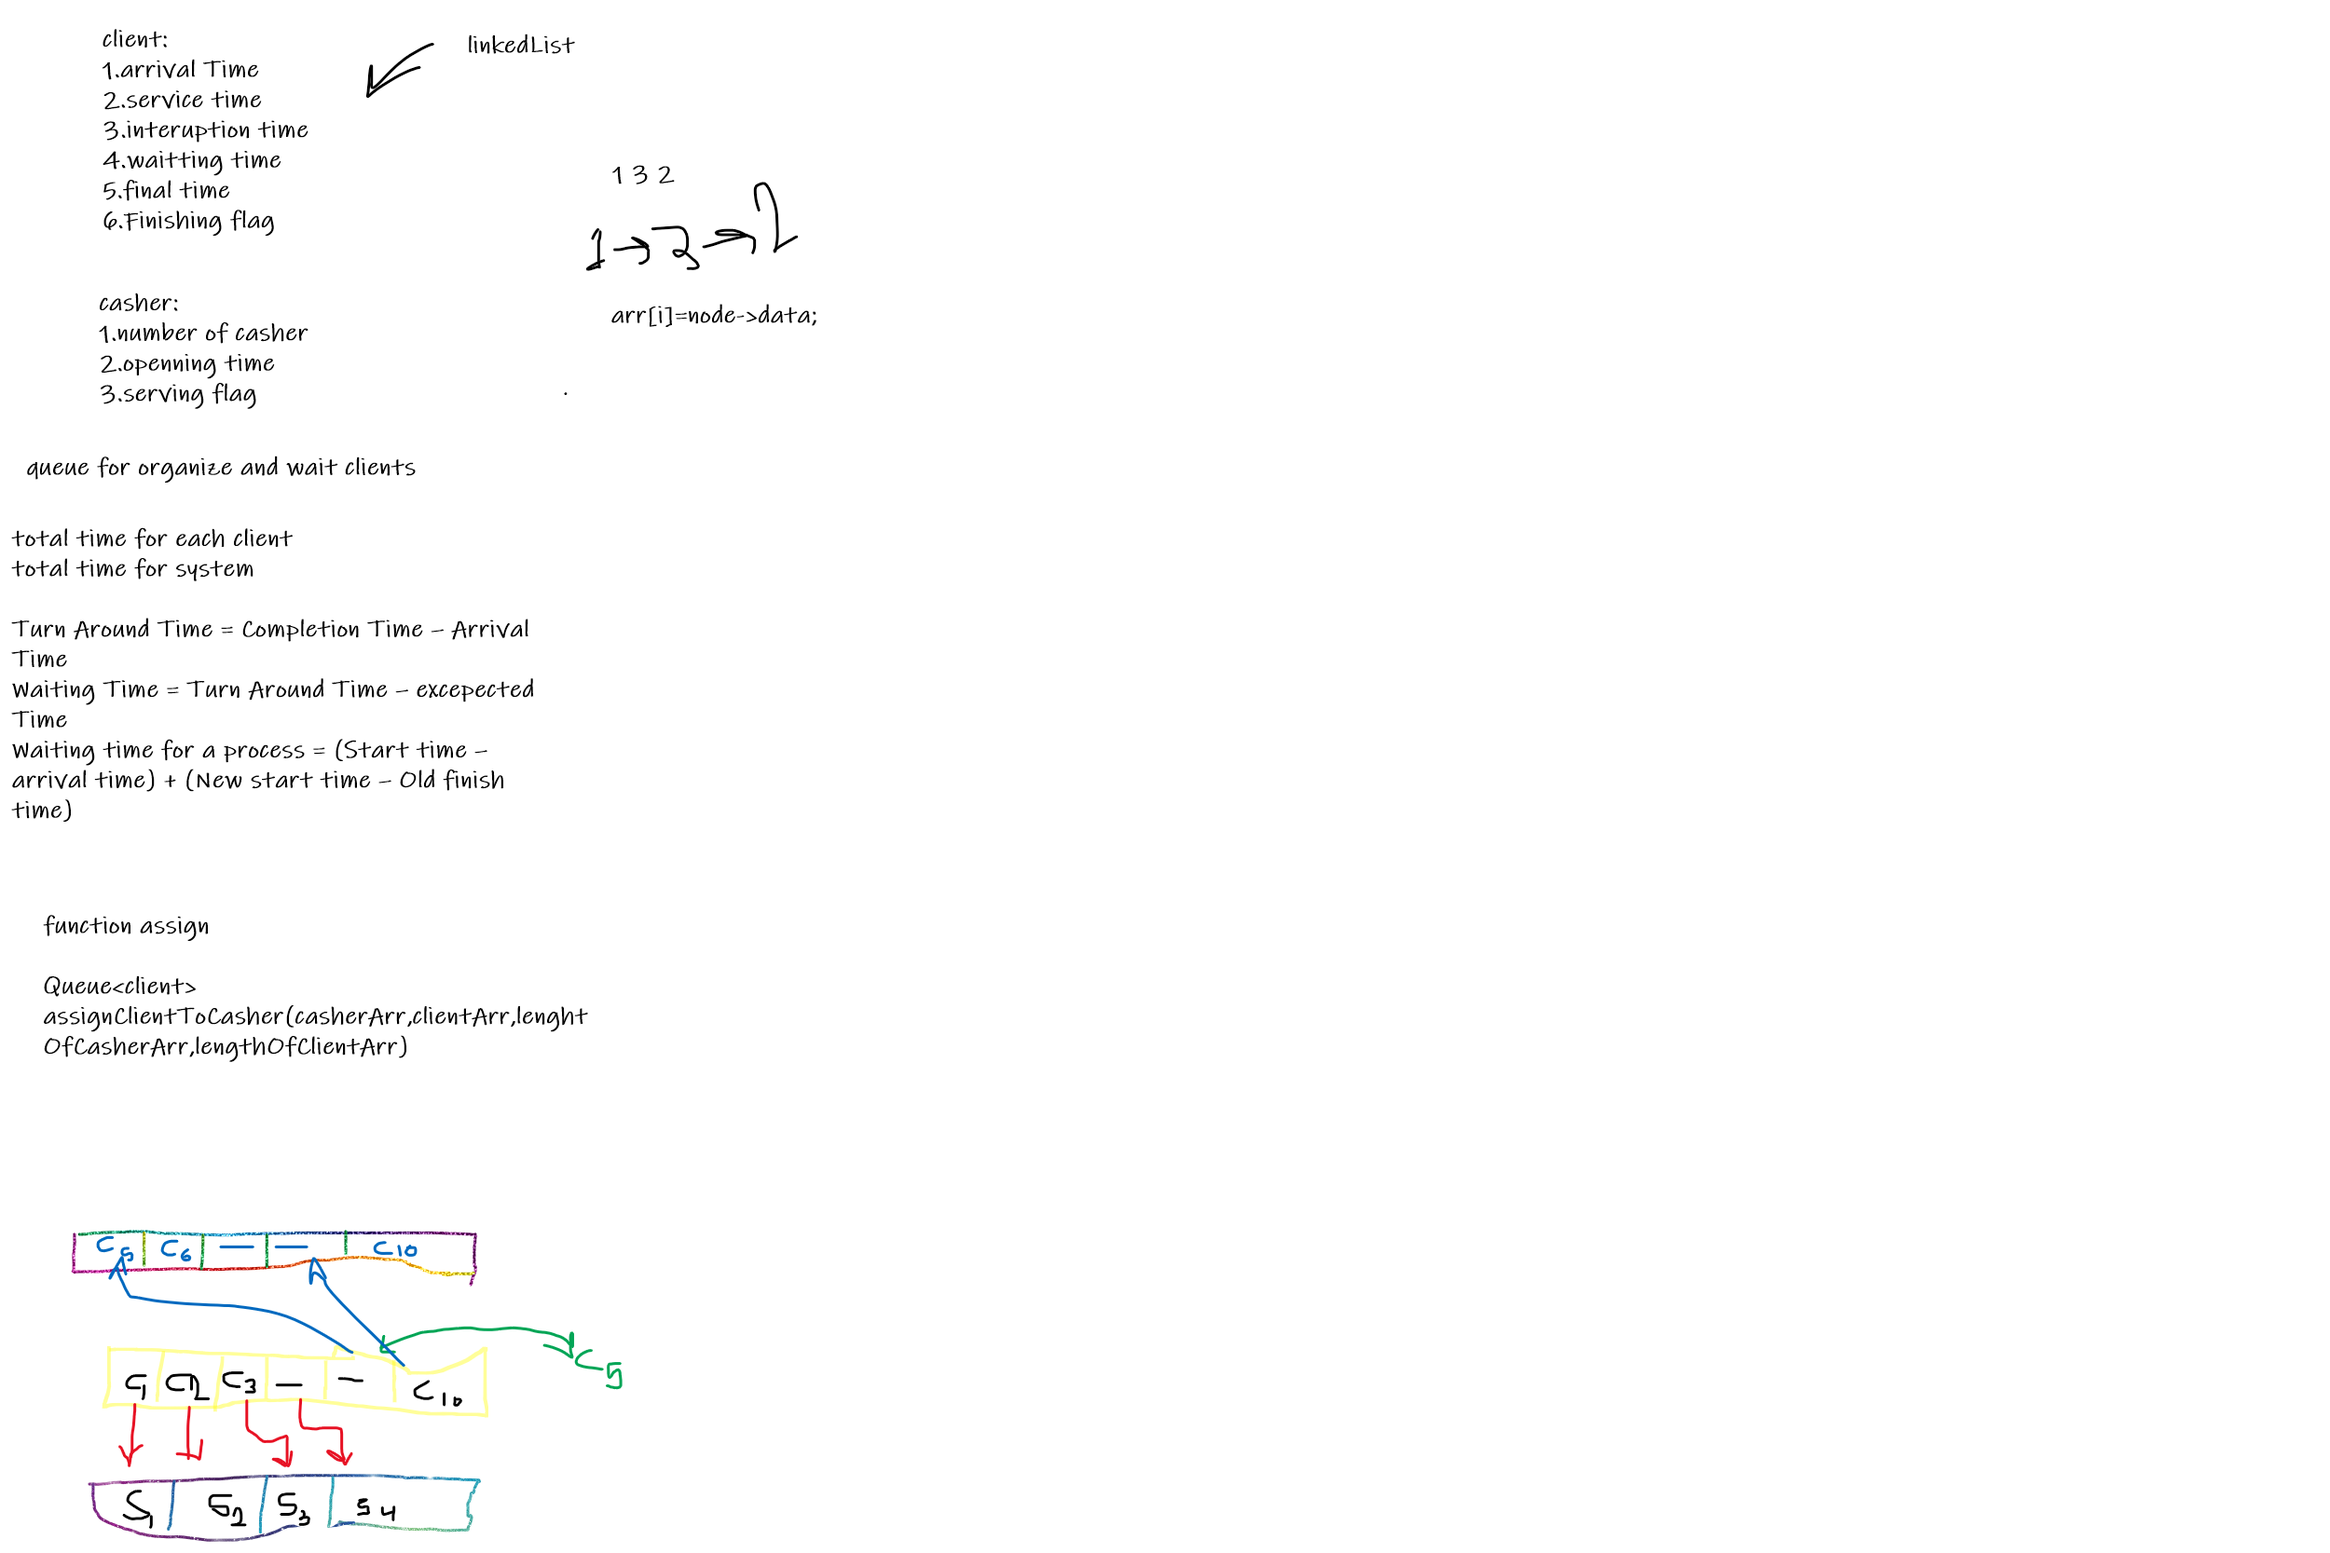
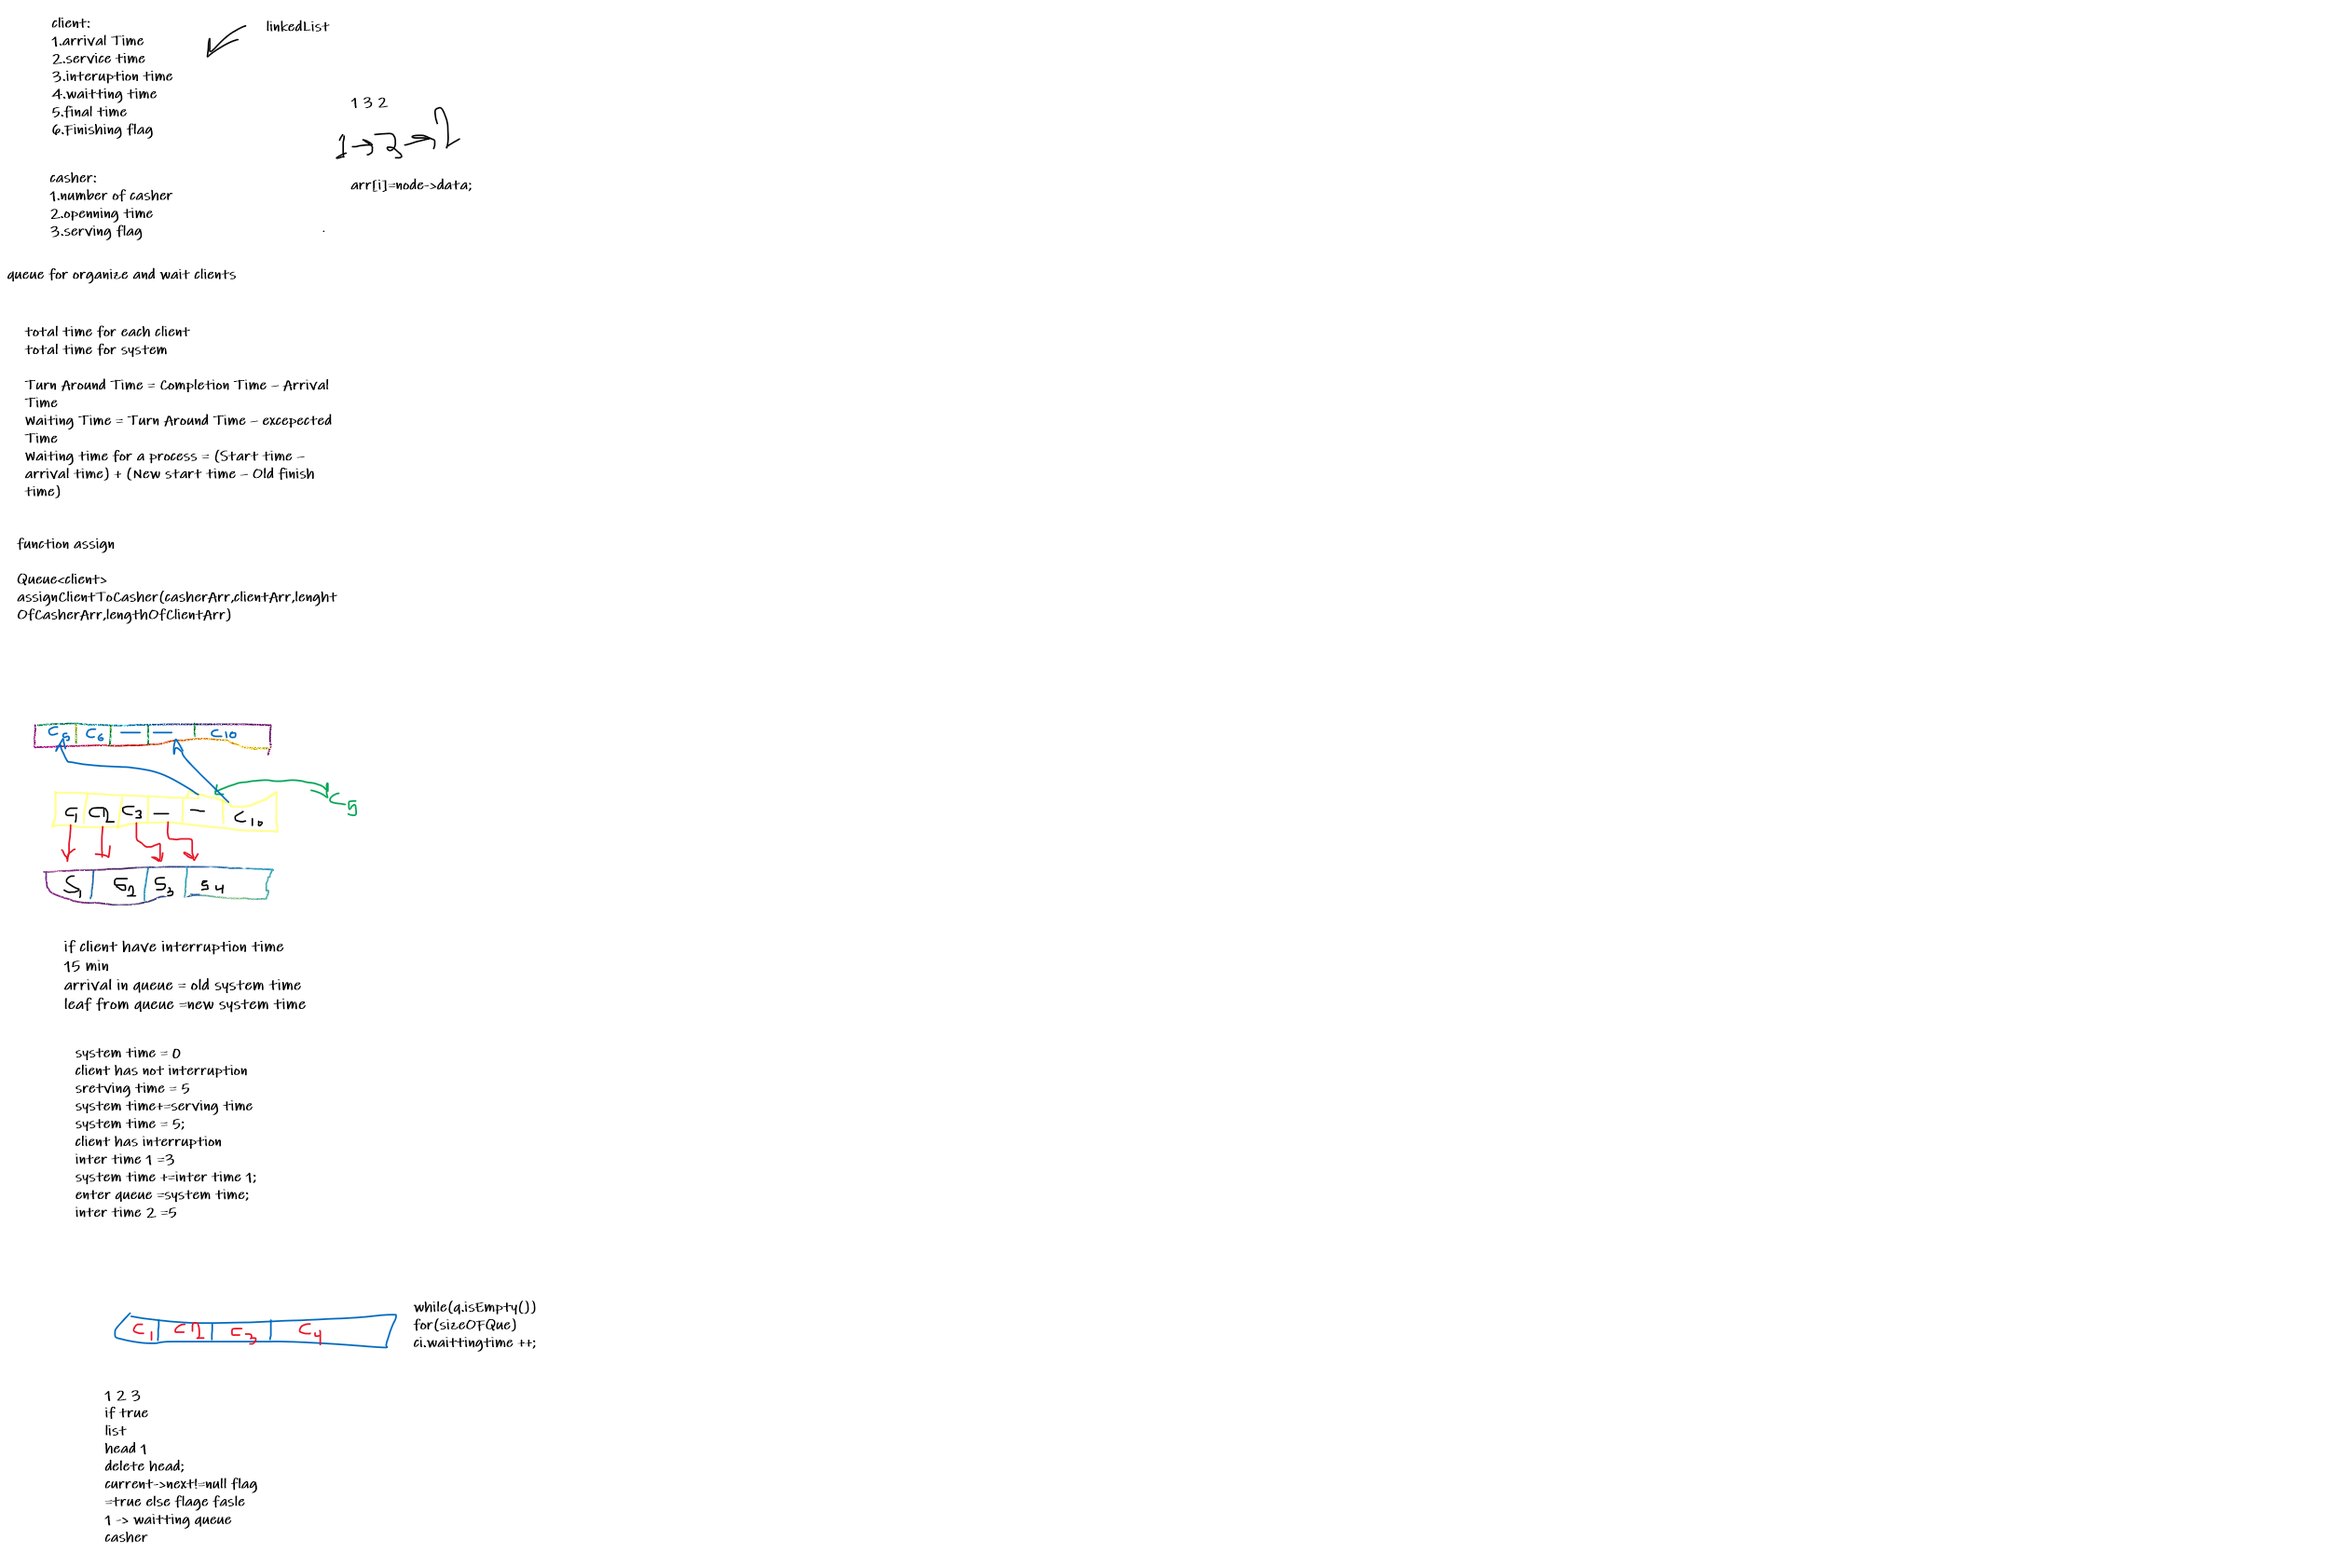
add waitting function

diff --git a/include/system.h b/include/system.h
@@ -1,22 +1,92 @@
 Queue<client> assignCasherToClient(client arr1[],casher arr2[],int len1,int len2){
-    Queue<client> clientWaitting;
-    int remainClient;
 
-    remainClient=0;
+    Queue<client> clientWaitting;
 
     for(int i=0;i<len2;i++){
         if(arr2[i].getSrvingFlag()==0)
             {
                arr2[i].setServingFlag(1);
                arr1[i].setNumberOfCasher(i);
-               ++remainClient;
+
             }
             }
 
-   for(int i=remainClient;i<len1;i++){
+   for(int i=0;i<len1;i++){
 
     clientWaitting.Enqueu(arr1[i]);
    }
 
 return clientWaitting;
 }
+
+///------------------------------------------------------------
+Queue<client> emptyQueue(Queue<client> Q){
+   while(Q.IsEmpty()){
+    Q.Dequeue();
+   }
+return Q;
+}
+///------------------------------------------------------------
+
+void calcWaittingTime(clientArr,casherArr,current_client_number,casher_number){
+Queue <client> Q;
+Queue <client> QClone;
+Queue <client> QC;
+
+Q=assignCasherToClient(clientArr,casherArr,current_client_number,casher_number);
+
+int iCasher,currentCasher;
+iCasher=0;
+client currentClient;
+LinkedList InterruptionList;
+Node *currentInterruptionTime;
+int currentServingTime;
+int newServingTime;
+
+    while(iCasher<casher_number){
+        currentClient=Q.FrontValue();
+        Q.Dequeue();
+        ///calculate Around  time
+        currentCasher=currentClient.getNumberOFCasher();
+       if(currentClient.getHasInterruption()){///if true
+          casherArr[currentCasher].setServingFlag(false);
+          InterruptionList = currentClient.getInterruption();
+          currentInterruptionTime = InterruptionList.head;
+          if(currentInterruptionTime->Next!=NULL){
+             ///equation
+          currentServingTime = casherArr[currentCasher].getserving_time();
+          newServingTime=currentServingTime+currentInterruptionTime->Data;
+          casherArr[currentCasher].setserving_time(newServingTime);
+          currentClient.setAroundTime(currentInterruptionTime->Data);
+          currentClient.setNumberOFCasher(-1);
+          Q.Enqueu(currentClient);
+          currentInterruptionTime=currentInterruptionTime->Next;
+
+          }else {cout<<"Finish Interruption"<<endl;}
+
+
+       }
+       else {/// if false
+         ///equation
+        currentClient.setAroundTime(currentClient.getService());
+        casherArr[currentCasher].setserving_time(currentClient.getService());
+        casherArr[currentCasher].setServingFlag(false);
+        currentClient.setNumberOfCasher(-1);
+            }
+    }
+    QC = Q;
+///when number of casher finish
+     while(QC.IsEmpty()){
+
+       for(int i=0;i<QC.getLength();i++){
+           QClone.Enqueu(Q.FrontValue().setWaittingTime()) ;
+           Q.Dequeue();
+                        }
+        Q=QClone;
+        QClone=emptyQueue(QClone);
+     }
+
+}
+
+
+

diff --git a/main.cpp b/main.cpp
@@ -13,7 +13,7 @@ using namespace std;
 int main()
 {
     ///inpust
-    int client_number,casher_number,i=0,
+    int client_number,casher_number,current_client_number=0,
     arrival,service,chooseAnotherClient=1,
     chooseAnyInteruption, numClient,interruption_time,chooseInteruption=1;
     LinkedList <int>interruption_time_list;
@@ -28,16 +28,16 @@ int main()
 	casher casherArr[casher_number];
 
 	while(chooseAnotherClient==1){ ///if you want to enter another client press 1 otherwise press 0
-        if(i<client_number)
+        if(current_client_number<client_number)
             {
-            cout<<"Please Enter info  of Client["<<i+1<<"]"<<endl;
+            cout<<"Please Enter info  of Client["<<current_client_number+1<<"]"<<endl;
             cout<<"Enter Arrival Time"<<endl;
             cin>>arrival;
             cout<<"Enter Service Time"<<endl;
             cin>>service;
 
-            clientArr[i].setArrival(arrival);
-            clientArr[i].setService(service);
+            clientArr[current_client_number].setArrival(arrival);
+            clientArr[current_client_number].setService(service);
 
             cout<<"Do you have any interruption for this client enter 1 or not 0"<<endl;
             cin>>chooseAnyInteruption;
@@ -50,10 +50,10 @@ int main()
                 cout<<"If you enter another interruption for this client please enter 1 not 0"<<endl;
                 cin>>chooseInteruption;
             }
-            clientArr[i].setInteruption(interruption_time_list);  ///assign list of interruption to client
+            clientArr[current_client_number].setInteruption(interruption_time_list);  ///assign list of interruption to client
         }
 
-                i++;
+                current_client_number++;
             cout<<"Do you want Enter client again 1 or not enter 0"<<endl;
             cin>>chooseAnotherClient;
 
@@ -76,7 +76,7 @@ int main()
 
 
        cout<<"QQQQQQQQQQQQQQQQQ"<<endl;
-       Queue<client> q =  assignCasherToClient(clientArr,casherArr,i,casher_number);
+       Queue<client> q =  assignCasherToClient(clientArr,casherArr,current_client_number,casher_number);
         while(q.IsEmpty()){
             cout<<q.FrontValue().getNumberOFCasher()<<" : "<<q.FrontValue().getArrival()<<endl;
             q.Dequeue();

diff --git a/include/client.h b/include/client.h
@@ -10,12 +10,15 @@ class client
         void setArrival(int t){arrival_time=t;}
         void setService(int t){service_time=t;}
         void setNumberOfCasher(int num){numberOfCasher=num;}
+        void setWaittingTime(){
+            waitting_time++;}
         void setInteruption(LinkedList<int> L){
              interuption_time=L;
 
             }
-        void setFinishing(bool f){
-        finishing=f;}
+        void setFinishingFlag(bool f){finishing=f;}
+        void setInteruptionFlag(bool f){hasInterruption=f;}
+        void setAroundTime(int t){around_time=t;}
         client(int t1,int t2){
           arrival_time=t1;
           service_time=t2;
@@ -23,29 +26,37 @@ class client
           waitting_time=0;
           finishing=false;
           numberOfCasher=-1;
+           hasInterruption=false;
+           around_time=0;
         }
         client(){
+            around_time=0;
          arrival_time=0;
          service_time=0;
          finishing =false; ///client not finish him task
          waitting_time=0;
          final_time=0;
          numberOfCasher=-1;
+         hasInterruption=false;
         }
+
         int getArrival(){return arrival_time;}
         int getService(){return service_time;}
         int getFinalTime(){return final_time;}
         int getWaittingTime(){return waitting_time;}
+        int getAroundTime(){return around_time;}
         int getNumberOFCasher(){return numberOfCasher;}
         LinkedList<int> getInterruption(){return interuption_time;}
-        bool getFlag(){return finishing;}
+        bool getFinishingFlag(){return finishing;}
+        bool getHasInterruption(){return hasInterruption;}
     protected:
 
     private:
 
-        int arrival_time,service_time,waitting_time,final_time;
+        int arrival_time,service_time,waitting_time,final_time,around_time;
         LinkedList<int> interuption_time;
         bool finishing;
+        bool hasInterruption;
         int numberOfCasher;
 };
 

diff --git a/include/casher.h b/include/casher.h
@@ -6,22 +6,22 @@ class casher
 {
     public:
         casher() {
-           openning_time=0;
+           serving_time=0;
            serving_flag=false; ///not work
         }
         casher(int t,bool f){
-         openning_time=t;
+         serving_time=t;
          serving_flag=f;
         }
-        void setOpenningTime(int time){openning_time=time;}
+        void setserving_time(int time){openning_time=time;}
         void setServingFlag(bool flag){serving_flag=flag;}
-        int getOpenningTime(){return openning_time;}
+        int getserving_time(){return openning_time;}
         bool getSrvingFlag(){return serving_flag;}
 
     protected:
 
     private:
-        int openning_time;
+        int serving_time;
         bool serving_flag;
 };
 

diff --git a/include/LinkedList.h b/include/LinkedList.h
@@ -8,7 +8,7 @@ using namespace std;
 template<class T>
 class LinkedList
 {
-    Node<T> *head, *tail;
+    public: Node<T> *head, *tail;
 
 public:
     LinkedList()

diff --git a/include/Queue.h b/include/Queue.h
@@ -66,7 +66,7 @@ class Queue
 
 
         }
-
+       int getLength(){return length;}
 
     private:
 };
